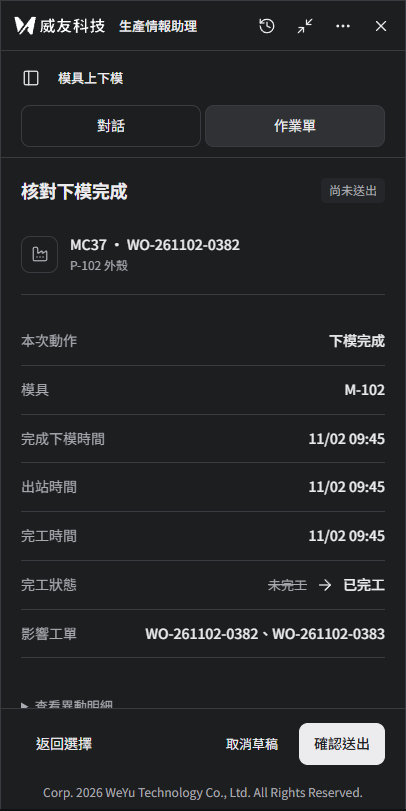
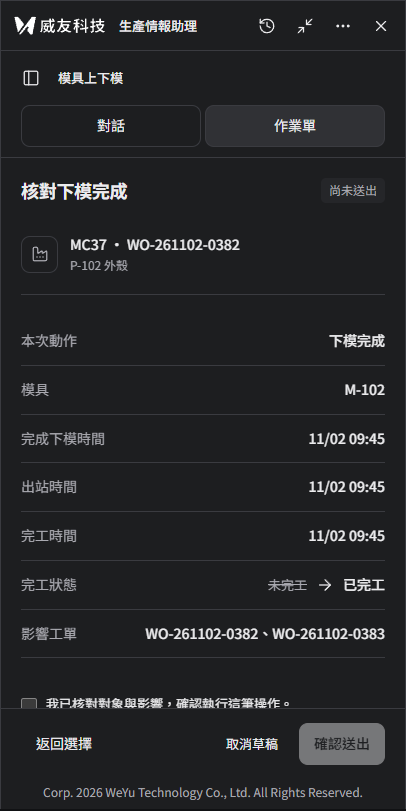
設計：依審查裁定補上下模完成獨立確認範例

Changed region(s): [[0.0591, 0.8631, 0.6798, 0.894], [0.7389, 0.894, 0.9458, 0.9556]]

diff --git a/docs/design/uiux-reference-v2/reference.html b/docs/design/uiux-reference-v2/reference.html
@@ -4124,7 +4124,7 @@ const chosen={"Home":[["path",{"d":"M15 21v-8a1 1 0 0 0-1-1h-4a1 1 0 0 0-1 1v8"}
     else if(state.action==='complete'){body=reviewRow('影響工單','WO-261102-0382、0383')+reviewRow('排程狀態','完工','生產中')+reviewRow('下一排程時間','依伺服器預覽確認');}
     else if(state.action==='cavities'){body=reviewRow('模穴數',(state.cavities??4)+' 穴','2 穴');}
     else{const record=state.reportRecord||{id:'RPT-0382-01',time:'11/02 09:10',good:120,defect:3};if(state.action==='update')body+=reviewRow('報工紀錄',record.id)+reviewRow('報工時間',record.time);body+=reviewRow('人工良品',state.good+' 件',state.action==='update'?record.good+' 件':undefined)+reviewRow('不良合計',state.defects.reduce((n,d)=>n+Number(d.quantity),0)+' 件',state.action==='update'?record.defect+' 件':undefined)+reviewRow('不良原因',state.defects.length?state.defects.map(d=>`${d.reason} ${d.quantity} 件`).join('、'):'無');if(state.note.trim())body+=reviewRow('備註',state.note);}
-    const independent=['delete','clear','complete'].includes(state.action);
+    const independent=['delete','clear','complete','down'].includes(state.action);
     return `<div class="ux-review">${body}</div>${independent?`<div style="margin-top:20px"><label class="ux-check"><input type="checkbox" data-approval ${state.approved?'checked':''}><span>我已核對對象與影響，確認執行這筆操作。</span></label></div>`:''}<details style="margin-top:16px"><summary>查看異動明細</summary><div class="ux-muted">示意預覽・實作須顯示伺服器回傳的欄位前後值。</div></details>`;
   }
   function workNotice(){
@@ -4154,7 +4154,7 @@ const chosen={"Home":[["path",{"d":"M15 21v-8a1 1 0 0 0-1-1h-4a1 1 0 0 0-1 1v8"}
     if(!state.target)return `<small>先選擇作業對象</small>${btn('下一步','review','primary','disabled')}`;
     const sub=state.substate;
     if(state.phase==='review'){
-      const blocked=['submitting','write-disabled','conflict','rejected'].includes(sub)||(['delete','clear','complete'].includes(state.action)&&!state.approved);
+      const blocked=['submitting','write-disabled','conflict','rejected'].includes(sub)||(['delete','clear','complete','down'].includes(state.action)&&!state.approved);
       return `${btn(noFields()?'返回選擇':'返回修改','back-edit','ghost',sub==='submitting'?'disabled':'')}<div class="ux-row">${btn('取消草稿','cancel-proposal','small ghost',sub==='submitting'?'disabled':'')}${sub==='expired'?btn('重新核對','refresh-preview','primary'):btn(sub==='submitting'?spin()+'送出中…':'確認送出','submit','primary',blocked?'disabled':'')}</div>`;
     }
     return `<small>${sub==='saving'?`${spin()} 儲存中…`:sub==='save-error'?'尚未儲存':state.savingText}</small>${btn(state.mode==='wizard'?'下一步':'核對內容','review','primary',state.busy||sub==='save-error'?'disabled':'')}`;

diff --git a/docs/design/uiux-reference-v2/reference-fragment.html b/docs/design/uiux-reference-v2/reference-fragment.html
@@ -428,7 +428,7 @@
     else if(state.action==='complete'){body=reviewRow('影響工單','WO-261102-0382、0383')+reviewRow('排程狀態','完工','生產中')+reviewRow('下一排程時間','依伺服器預覽確認');}
     else if(state.action==='cavities'){body=reviewRow('模穴數',(state.cavities??4)+' 穴','2 穴');}
     else{const record=state.reportRecord||{id:'RPT-0382-01',time:'11/02 09:10',good:120,defect:3};if(state.action==='update')body+=reviewRow('報工紀錄',record.id)+reviewRow('報工時間',record.time);body+=reviewRow('人工良品',state.good+' 件',state.action==='update'?record.good+' 件':undefined)+reviewRow('不良合計',state.defects.reduce((n,d)=>n+Number(d.quantity),0)+' 件',state.action==='update'?record.defect+' 件':undefined)+reviewRow('不良原因',state.defects.length?state.defects.map(d=>`${d.reason} ${d.quantity} 件`).join('、'):'無');if(state.note.trim())body+=reviewRow('備註',state.note);}
-    const independent=['delete','clear','complete'].includes(state.action);
+    const independent=['delete','clear','complete','down'].includes(state.action);
     return `<div class="ux-review">${body}</div>${independent?`<div style="margin-top:20px"><label class="ux-check"><input type="checkbox" data-approval ${state.approved?'checked':''}><span>我已核對對象與影響，確認執行這筆操作。</span></label></div>`:''}<details style="margin-top:16px"><summary>查看異動明細</summary><div class="ux-muted">示意預覽・實作須顯示伺服器回傳的欄位前後值。</div></details>`;
   }
   function workNotice(){
@@ -458,7 +458,7 @@
     if(!state.target)return `<small>先選擇作業對象</small>${btn('下一步','review','primary','disabled')}`;
     const sub=state.substate;
     if(state.phase==='review'){
-      const blocked=['submitting','write-disabled','conflict','rejected'].includes(sub)||(['delete','clear','complete'].includes(state.action)&&!state.approved);
+      const blocked=['submitting','write-disabled','conflict','rejected'].includes(sub)||(['delete','clear','complete','down'].includes(state.action)&&!state.approved);
       return `${btn(noFields()?'返回選擇':'返回修改','back-edit','ghost',sub==='submitting'?'disabled':'')}<div class="ux-row">${btn('取消草稿','cancel-proposal','small ghost',sub==='submitting'?'disabled':'')}${sub==='expired'?btn('重新核對','refresh-preview','primary'):btn(sub==='submitting'?spin()+'送出中…':'確認送出','submit','primary',blocked?'disabled':'')}</div>`;
     }
     return `<small>${sub==='saving'?`${spin()} 儲存中…`:sub==='save-error'?'尚未儲存':state.savingText}</small>${btn(state.mode==='wizard'?'下一步':'核對內容','review','primary',state.busy||sub==='save-error'?'disabled':'')}`;

diff --git a/docs/design/uiux-reference-v2/README.md b/docs/design/uiux-reference-v2/README.md
@@ -17,11 +17,12 @@
 - 「資料／紀錄」分頁與「AI 已設定」字樣。
 - 新聊天與搜尋、收合在同一列。
 
-## 範例本身的三個瑕疵（產品照修正後的樣子做）
+## 範例本身的瑕疵（產品照修正後的樣子做）
 
 1. 側欄項目一律靠左、同一縮排。
 2. 側欄清單自己捲動，不被底部用量條蓋住。
 3. 聊天內容底部留出輸入框高度，最後一則訊息能完整捲到輸入框上方。
+4. 下模完成原範例漏了獨立確認，已補上，與產品卡控一致（依 PR #64 第 1 輪審查裁定）。
 
 ## 檔案
 
